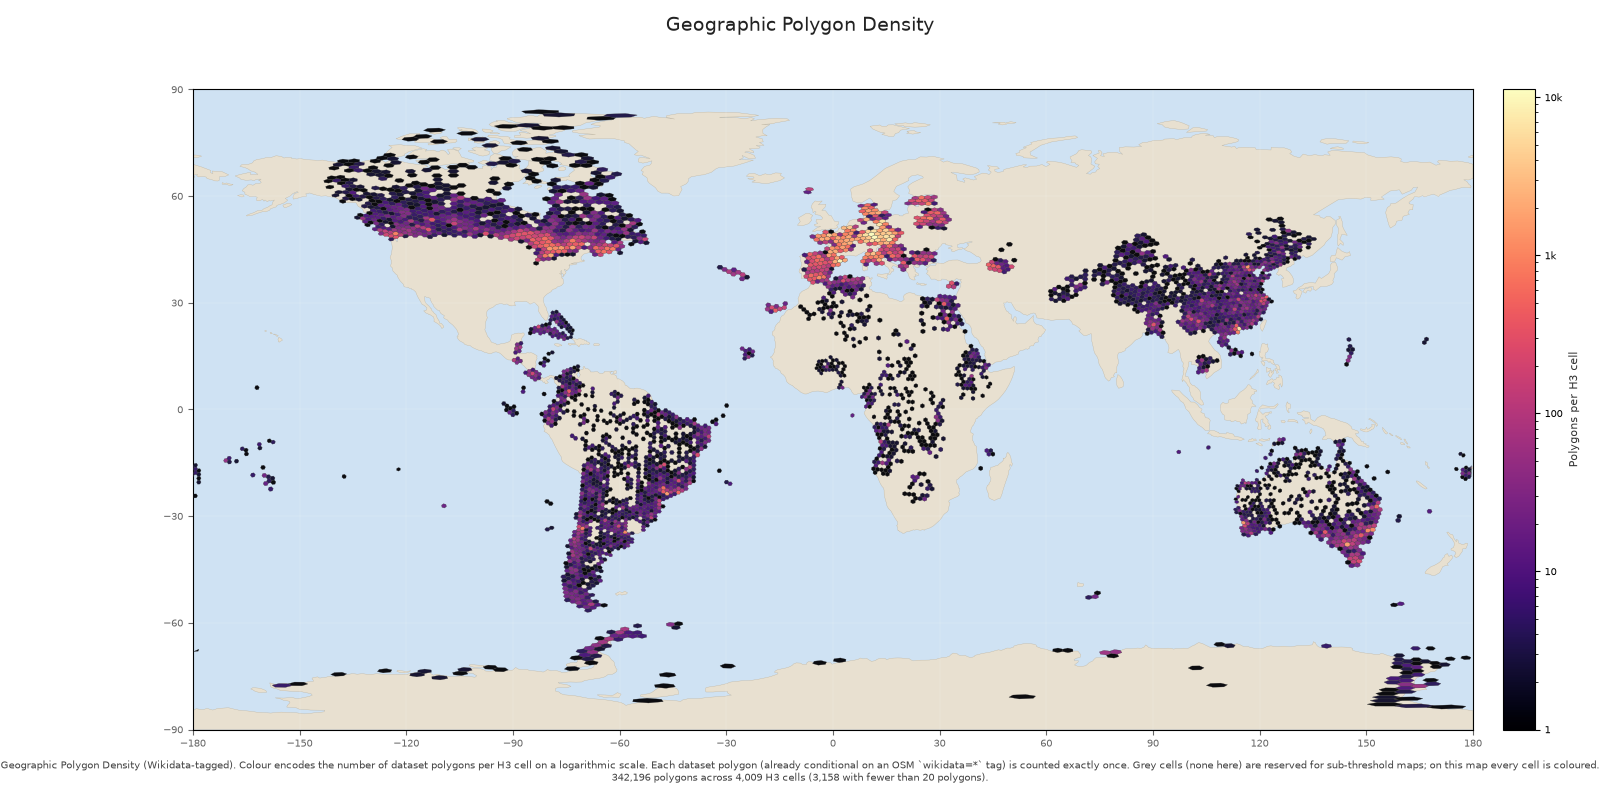
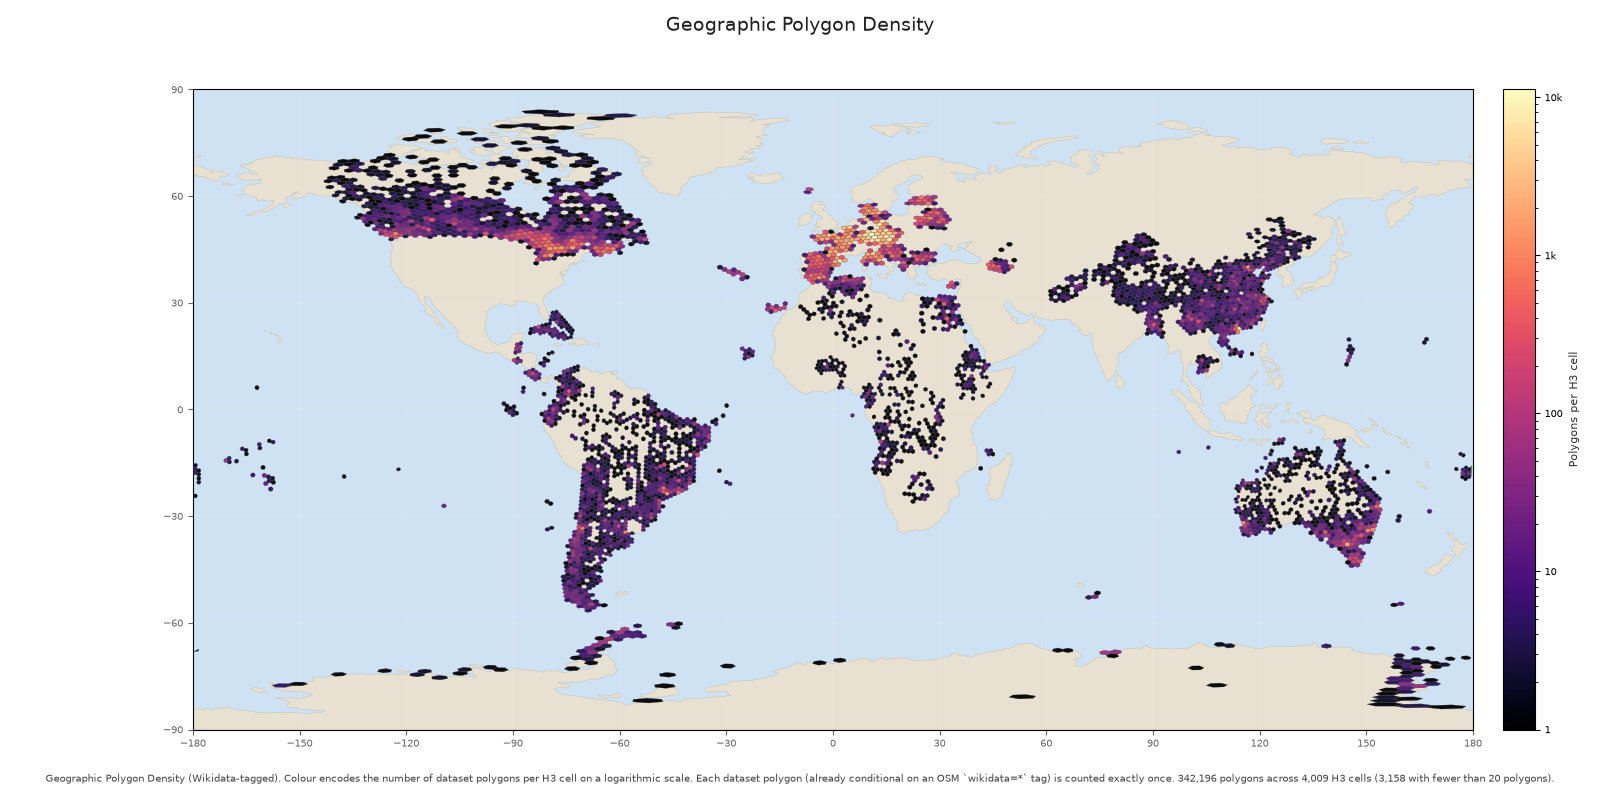
style: remove sub-threshold grey cell reference from polygon count map caption

Changed region(s): [[0.0, 0.9375, 1.0, 1.0]]

diff --git a/src/osm_polygon_wikidata_only/hf/geographic_text_coverage.py b/src/osm_polygon_wikidata_only/hf/geographic_text_coverage.py
@@ -811,8 +811,7 @@ def render_geographic_polygon_count(
         "number of dataset polygons per H3 cell on a logarithmic scale. "
         "Each dataset polygon (already conditional on an OSM "
         "`wikidata=*` tag) is counted exactly once. "
-        f"Grey cells (none here) are reserved for sub-threshold maps; on "
-        f"this map every cell is coloured. {total_polygons:,} polygons across "
+        f"{total_polygons:,} polygons across "
         f"{len(coerced):,} H3 cells ({low_sample_count:,} with fewer than "
         f"{min_polygons_per_cell} polygons)."
     )